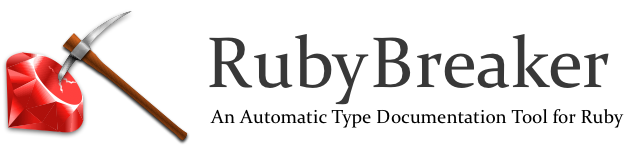
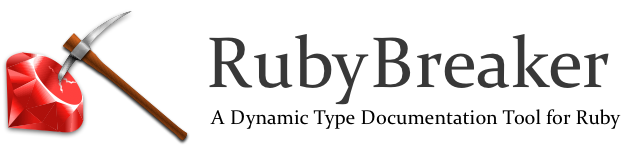
Documentation updates.

Changed region(s): [[0.3125, 0.72, 0.9688, 0.88]]

diff --git a/README.md b/README.md
@@ -1,13 +1,13 @@
 # Introduction
 
-RubyBreaker is an automatic type documentation tool written in pure Ruby. It
+RubyBreaker is a dynamic type documentation tool written in pure Ruby. It
 provides the framework for dynamically instrumenting a Ruby program to
 monitor objects during the execution and document the observed type
 information. In addition, it can perform early dynamic type checking.
-In other words, RubyBreaker helps Ruby programs "break" out of the obscurity
-and wildness by documenting the type information.  The type documentation
-generated by RubyBreaker is also an executable Ruby code that can be used as
-an input to subsequent analyses.  
+In other words, RubyBreaker helps Ruby programs "break" out of obscurities
+and convolutions by documenting the type information.  The type
+documentation generated by RubyBreaker is also an executable Ruby code that
+can be used as an input to subsequent analyses.  
 
 The primary goal of RubyBreaker is to assign a type signature to every
 method in selected modules and classes. A type signature is written in the
